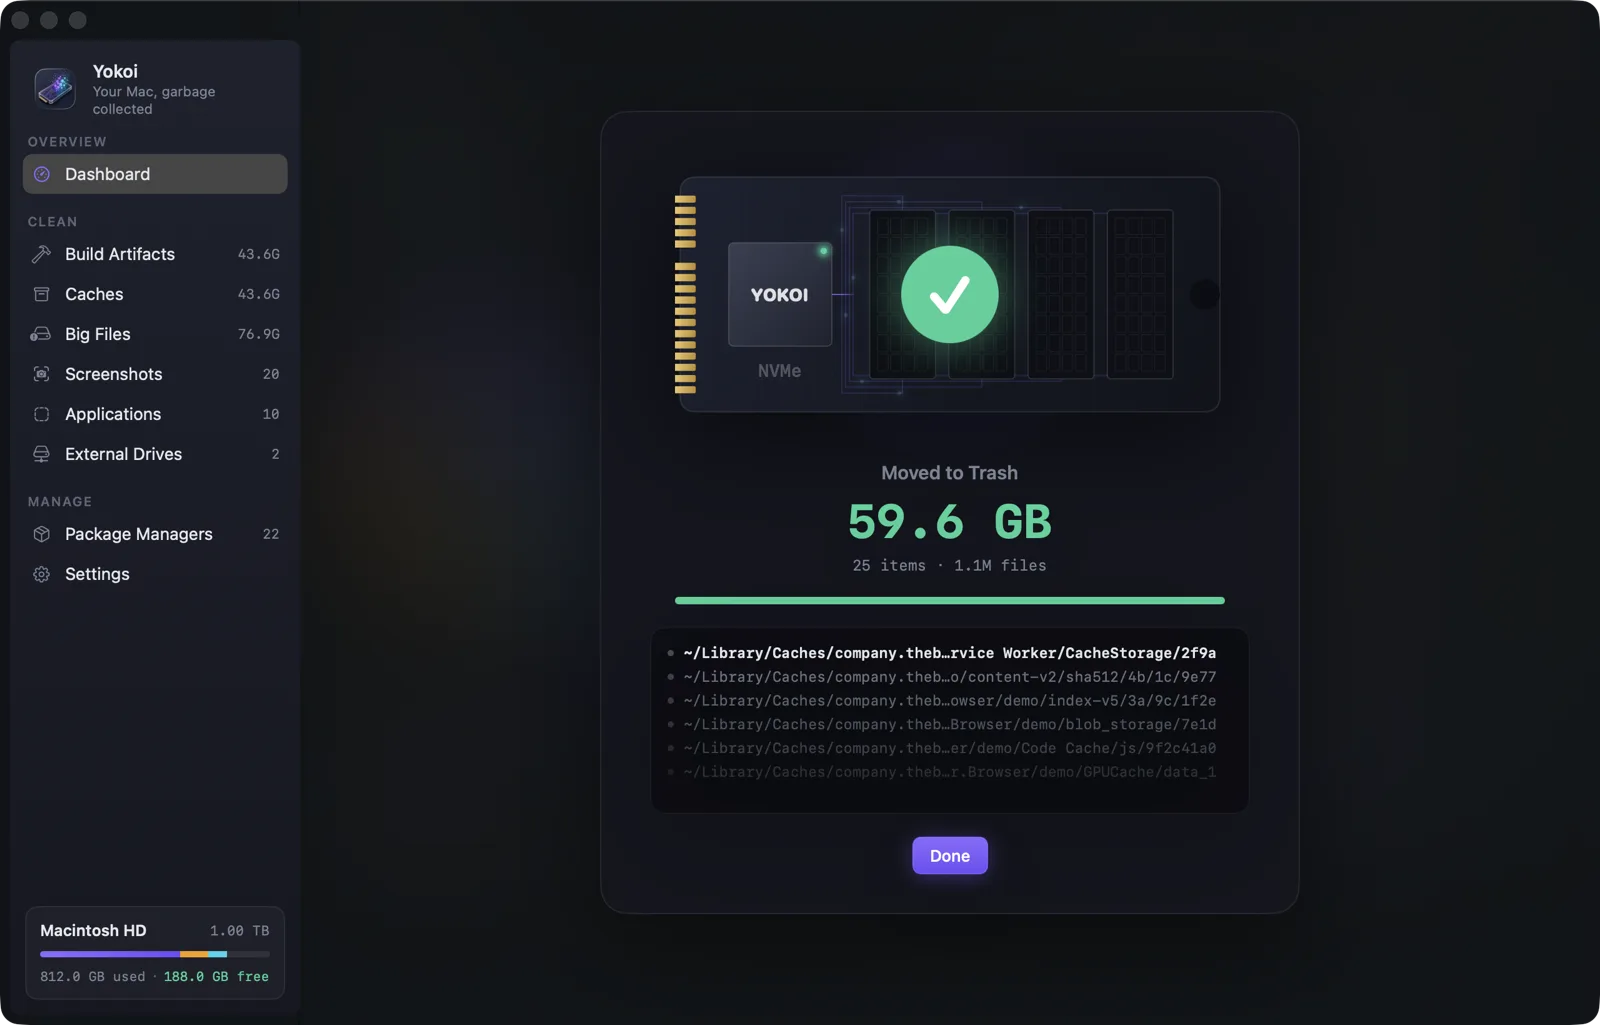
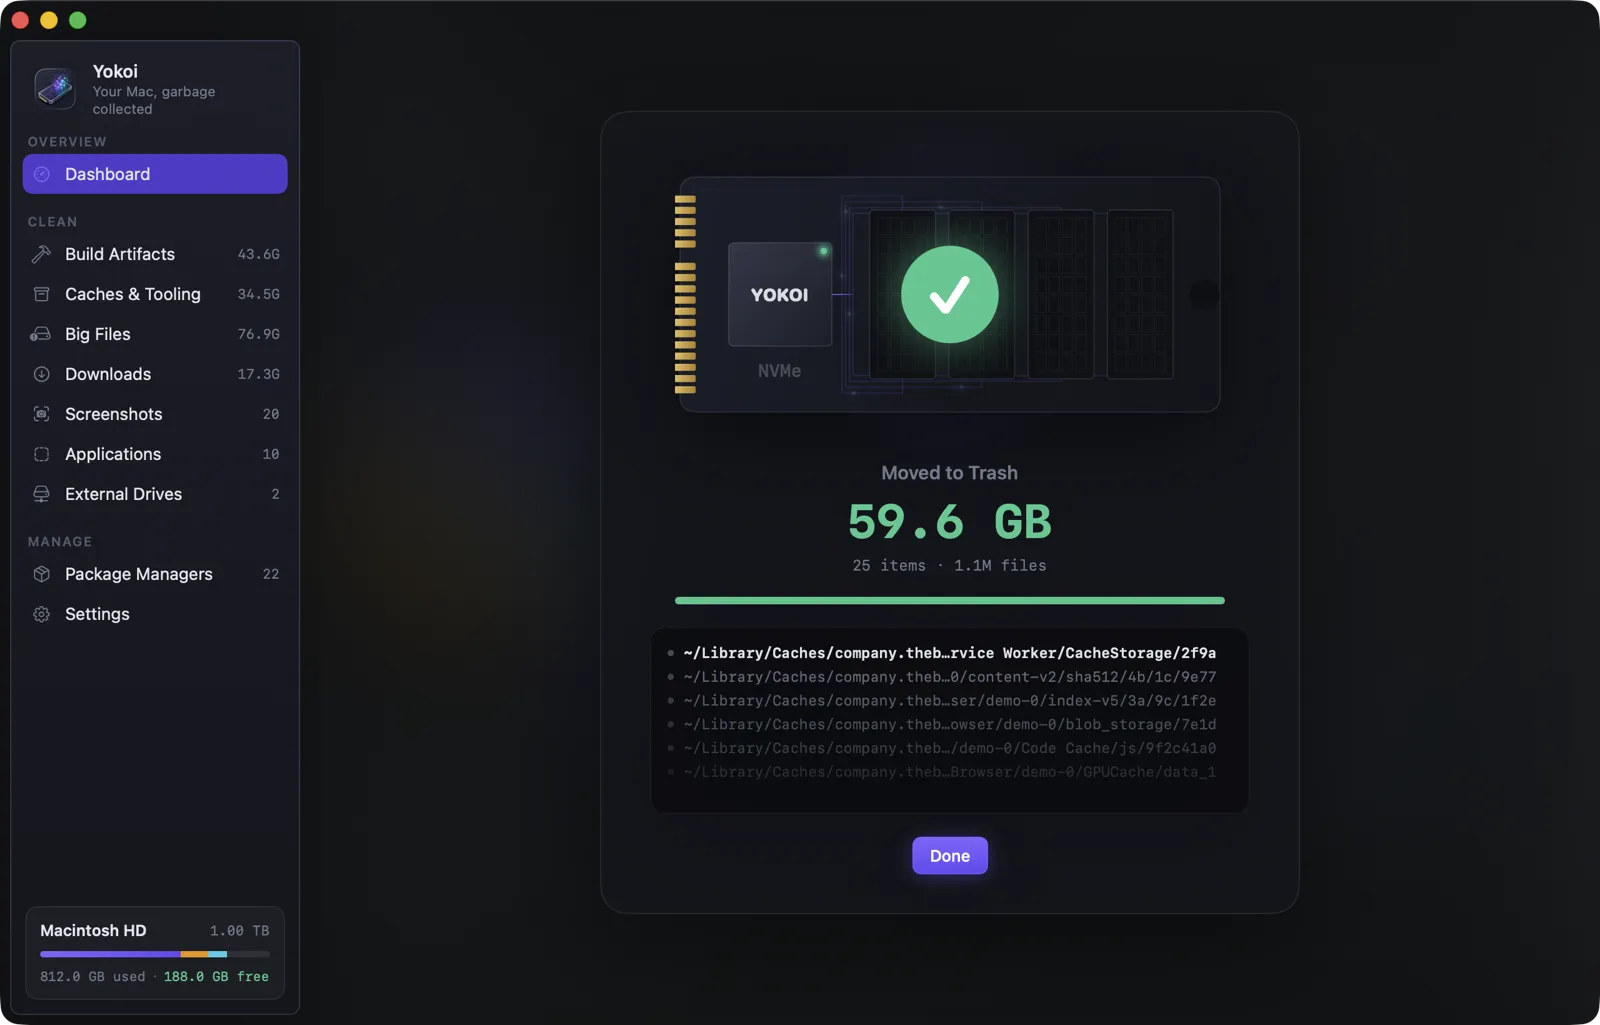
Bring the site in line: Caches & Tooling, new screenshots, permissions FAQ
- Feature card and screenshot tab renamed to Caches & Tooling.
- Screenshots regenerated from the README set (WebP, q80), with the Trash card.
- Full Disk Access FAQ says it's optional and that tools Yokoi runs inherit
  it; new "Why isn't Yokoi sandboxed?" answer; trusted tool paths noted
  under No escalation.

diff --git a/site/index.html b/site/index.html
@@ -116,7 +116,7 @@
         </article>
         <article class="card reveal" style="--c:#22D3EE">
           <div class="card-top"><span class="ico">🗄</span><span class="badge mono">~/Library/Caches</span></div>
-          <h3>Caches</h3>
+          <h3>Caches &amp; Tooling</h3>
           <p>npm, Homebrew, Cargo, Gradle, CocoaPods, pip, Xcode, simulators, Android emulators, browsers, and Ollama / Hugging Face models.</p>
           <p class="rule">Every location is tagged <span class="tag tag-ok">Safe</span> <span class="tag tag-info">Re-download</span> or <span class="tag tag-warn">Review</span>.</p>
         </article>
@@ -188,7 +188,7 @@
       <div class="seg reveal" role="tablist" aria-label="Screens">
         <button role="tab" aria-selected="true" data-shot="npm-node-modules" data-cap="Every node_modules folder, stale ones preselected">node_modules</button>
         <button role="tab" aria-selected="false" data-shot="build-artifacts" data-cap="Build artifacts grouped by toolchain, matched by marker files">Build artifacts</button>
-        <button role="tab" aria-selected="false" data-shot="caches" data-cap="Caches tagged Safe, Re-download or Review">Caches</button>
+        <button role="tab" aria-selected="false" data-shot="caches" data-cap="Caches &amp; Tooling tagged Safe, Re-download or Review, with the Trash on its own">Caches &amp; Tooling</button>
         <button role="tab" aria-selected="false" data-shot="applications" data-cap="Uninstall apps together with their leftovers">Applications</button>
         <button role="tab" aria-selected="false" data-shot="package-managers" data-cap="Outdated and unused global packages">Packages</button>
         <button role="tab" aria-selected="false" data-shot="screenshots" data-cap="File screenshots by month, or clear them out">Screenshots</button>
@@ -214,7 +214,7 @@
           <div class="srow reveal"><span class="sdot" style="--c:#7C5CFF"></span><div><h4>Dry run</h4><p>Preview exactly what would happen, with sizes, without touching a byte.</p></div></div>
           <div class="srow reveal"><span class="sdot" style="--c:#22D3EE"></span><div><h4>Scoped access</h4><p>Each category can only touch its own folders. Keychains, Mail, Messages, iCloud Drive, Photos, <code>/System</code> and <code>.git</code> are blocked unconditionally.</p></div></div>
           <div class="srow reveal"><span class="sdot" style="--c:#F59E0B"></span><div><h4>Busy means no</h4><p>Projects open in Xcode, Unity, Unreal or a running <code>node</code> process are refused, checked when you confirm and again right before acting. Recently touched projects start unchecked.</p></div></div>
-          <div class="srow reveal"><span class="sdot" style="--c:#F0565E"></span><div><h4>No escalation, symlink-proof</h4><p>Never runs <code>sudo</code>. Tools run without a shell. Symlinks are removed, never followed, and paths are re-checked at their real location.</p></div></div>
+          <div class="srow reveal"><span class="sdot" style="--c:#F0565E"></span><div><h4>No escalation, symlink-proof</h4><p>Never runs <code>sudo</code>. Tools run without a shell, from a full path you see before confirming, and only from folders you or an administrator control. Symlinks are removed, never followed, and paths are re-checked at their real location.</p></div></div>
           <div class="srow reveal"><span class="sdot" style="--c:#60A5FA"></span><div><h4>Everything is logged</h4><p>Every cleanup goes to <code>cleanup.log</code> with path, size, action and where it went.</p></div></div>
         </div>
         <figure class="safety-media reveal">
@@ -273,7 +273,8 @@
       <div class="faq">
         <details class="reveal"><summary>Is it safe to delete node_modules and build folders?</summary><p>Yes. Your package manager or toolchain rebuilds them (<code>npm install</code>, <code>cargo build</code>, reopening the project in Unity…). Yokoi shows the restore command before you confirm, and only matches build folders next to their project files.</p></details>
         <details class="reveal"><summary>Can I undo a cleanup?</summary><p>Anything moved to the Trash can be put back from <em>Recent cleanups</em> on the dashboard, until you empty the Trash. Permanent deletes can't be undone, which is why they always need an extra confirmation.</p></details>
-        <details class="reveal"><summary>Why does it want Full Disk Access?</summary><p>macOS protects some caches and folders. Without access, Yokoi can't measure them and skips them. Even with access, Yokoi never touches Keychains, Mail, Messages, iCloud Drive or Photos.</p></details>
+        <details class="reveal"><summary>Why does it want Full Disk Access?</summary><p>macOS protects some caches and folders. Without access, Yokoi can't measure them and skips them. Full Disk Access is optional: everything else works without it. Even with access, Yokoi never touches Keychains, Mail, Messages, iCloud Drive or Photos.</p><p>It's a broad grant, and the tools Yokoi runs for you (<code>brew</code>, <code>npm</code>, <code>docker</code>…) inherit it. That's why each tool is run from a full path you see before confirming, and only from a folder that you or an administrator control.</p></details>
+        <details class="reveal"><summary>Why isn't Yokoi sandboxed?</summary><p>The App Sandbox only lets an app into folders you pick in an Open panel, and it can't run other programs. A cleaner that measures <code>~/Library/Caches</code>, <code>node_modules</code> across your projects and Xcode's folders, and runs <code>brew</code>, <code>npm</code> or <code>docker</code> to clean up after them, can't work inside it. Yokoi is notarized and built with the Hardened Runtime and no exception entitlements: no unsigned code, no injected libraries, no debugger attach. Moving the deleting and the running of tools into a separate helper with fewer rights is on the roadmap.</p></details>
         <details class="reveal"><summary>Does it need my password or run anything as root?</summary><p>No. Yokoi never uses <code>sudo</code>. A few actions macOS reserves for administrators are shown as commands you can run yourself.</p></details>
         <details class="reveal"><summary>How does it update?</summary><p>Through <a href="https://sparkle-project.org">Sparkle</a>. Every update is signed, and Sparkle refuses one whose signature doesn't match. You choose whether it checks automatically.</p></details>
         <details class="reveal"><summary>What does "garbage collected" mean here?</summary><p>It's the same idea as in a runtime: find what's no longer reachable from your active work, such as stale dependencies, rebuildable output and caches nobody reads, and reclaim it without touching anything still in use.</p></details>
